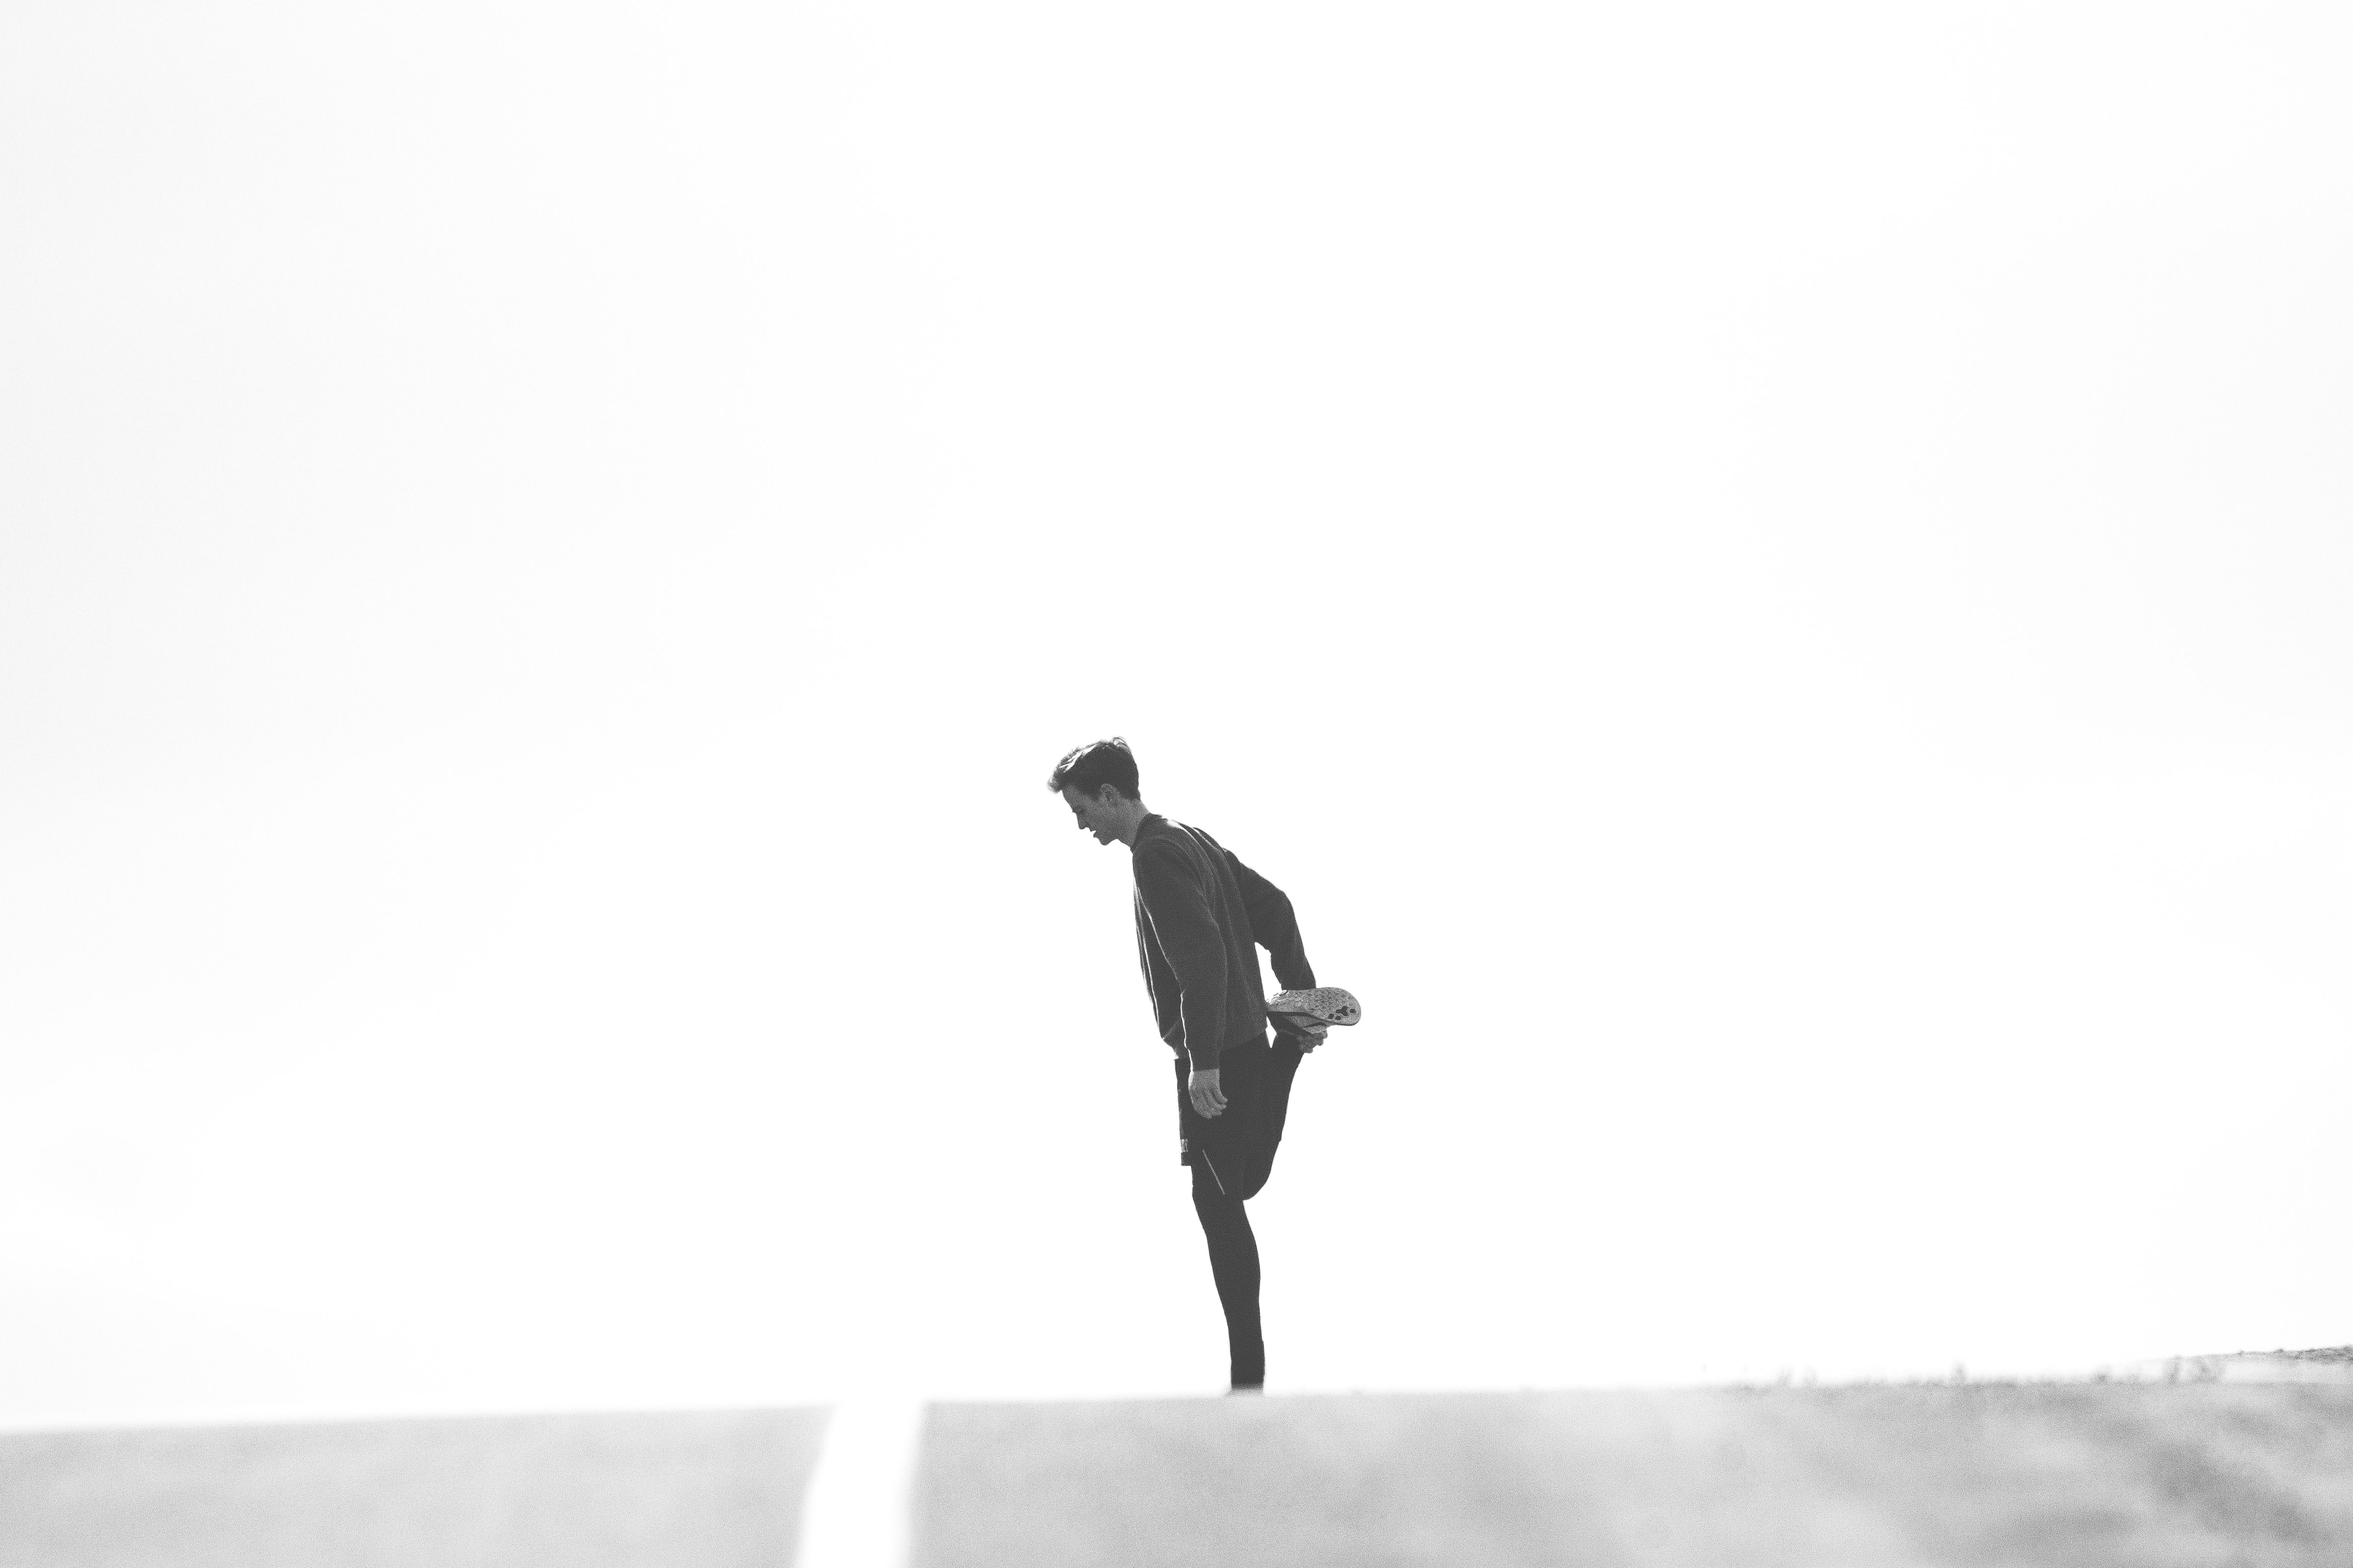
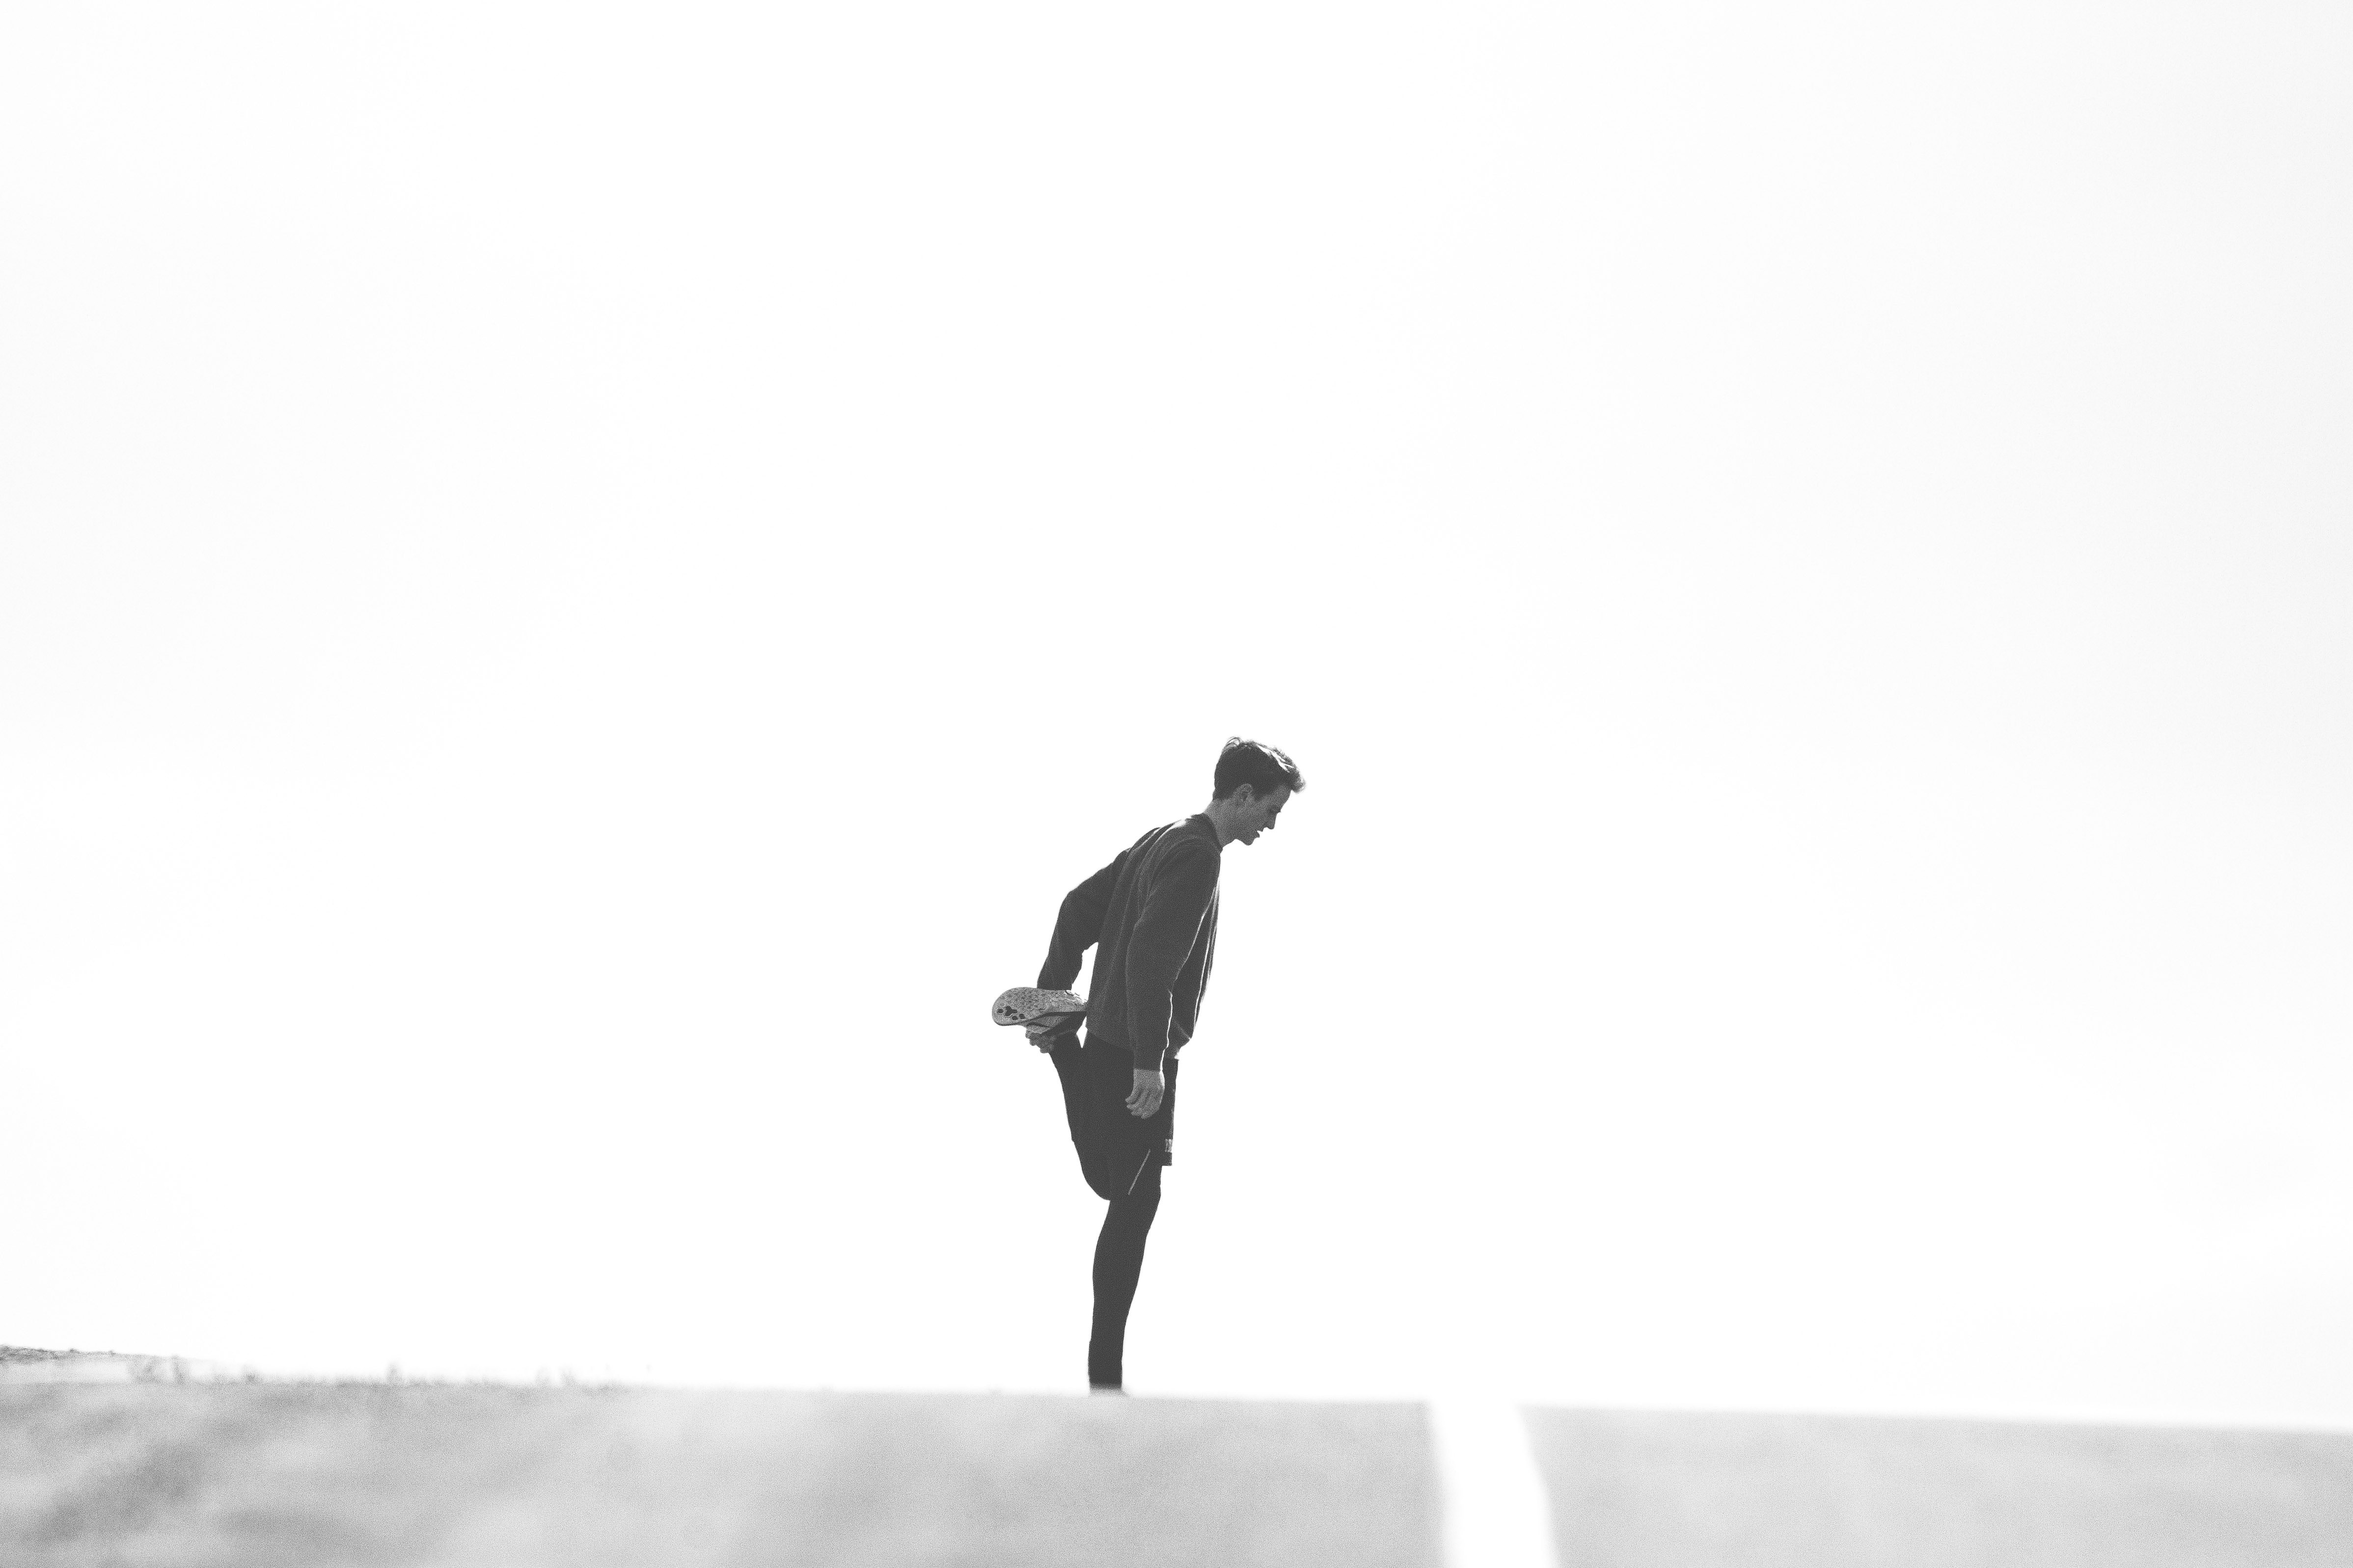
Updated mobile

Changed region(s): [[0.0, 0.4648, 1.0, 1.0]]

diff --git a/resources/assets/styles/components/mobile/_home.scss b/resources/assets/styles/components/mobile/_home.scss
@@ -70,15 +70,23 @@
 
 .mob-athlete-box {
     background-color: $IplayGreen;
+    background-blend-mode: multiply;
+    background-image: url("/themes/wordplate/images/athlete.jpg");
+    background-size: 179%;
+    background-position: 11% 83%;
     width: 93.87vw;
     height: 258px;
-    -webkit-clip-path: polygon(0 10%, 100% 0%, 100% 100%, 0% 100%);
-    clip-path: polygon(0 10%, 100% 0%, 100% 100%, 0% 100%);
+    -webkit-clip-path: polygon(0 10%, 100% 0, 100% 100%, 0 100%);
+    clip-path: polygon(0 10%, 100% 0, 100% 100%, 0 100%);
 }
 
 .mob-fans-box {
     margin-top: 12px;
     background-color: $IplayPink;
+    background-blend-mode: multiply;
+    background-image: url("/themes/wordplate/images/fans.jpg");
+    background-size: 179%;
+    background-position: 11% 83%;
     width: 93.87vw;
     height: 258px;
 }

diff --git a/resources/assets/styles/project/_shared.scss b/resources/assets/styles/project/_shared.scss
@@ -1,4 +1,3 @@
-
 :root {
     // font-family: "Helvetica Neue";
     font-family: 'Open Sans', sans-serif;
@@ -6,6 +5,7 @@
 
 body {
     margin: 0;
+    background-color: $IplayWhiteBG;
 }
 
 @font-face {
@@ -32,19 +32,20 @@ a:visited {
     left: 0;
     background-color: rgba(255, 255, 255, 0.9);
     width: 100vw;
-    height: 100vh;
+    height: calc(100vh + 1px);
     z-index: -1;
 }
 
 .video-background {
     position: absolute;
     top: 0; right: 0; bottom: 0; left: 0;
-    z-index: -99;
+    z-index: -2;
     filter: grayscale(100%);
 }
 
 .video-foreground,
 .video-background iframe {
+    background-color: $IplayWhiteBG;
     position: absolute;
     top: 0;
     left: 0;

diff --git a/public/themes/wordplate/components/mobile/index.php b/public/themes/wordplate/components/mobile/index.php
@@ -26,7 +26,9 @@
 
         <div class="mob-landingpage-placeholder"></div>
 
-        <div class="mob-athlete-box"></div>
+        <div class="mob-athlete-box">
+            <h1>Tjoho!</h1>
+        </div>
         <div class="mob-fans-box"></div>
         <div class="mob-others-box"></div>
 

diff --git a/public/themes/wordplate/components/videobg.php b/public/themes/wordplate/components/videobg.php
@@ -3,5 +3,4 @@
         <iframe src="https://www.youtube.com/embed/lZA-57h64kE?controls=0&showinfo=0&rel=0&start=10&autoplay=1&loop=1&mute=1&iv_load_policy=3&playlist=lZA-57h64kE" frameborder="0" style="filter: grayscale(100%)"></iframe>
     </div>
 </div>
-
 <div class="overlay-white"></div>
